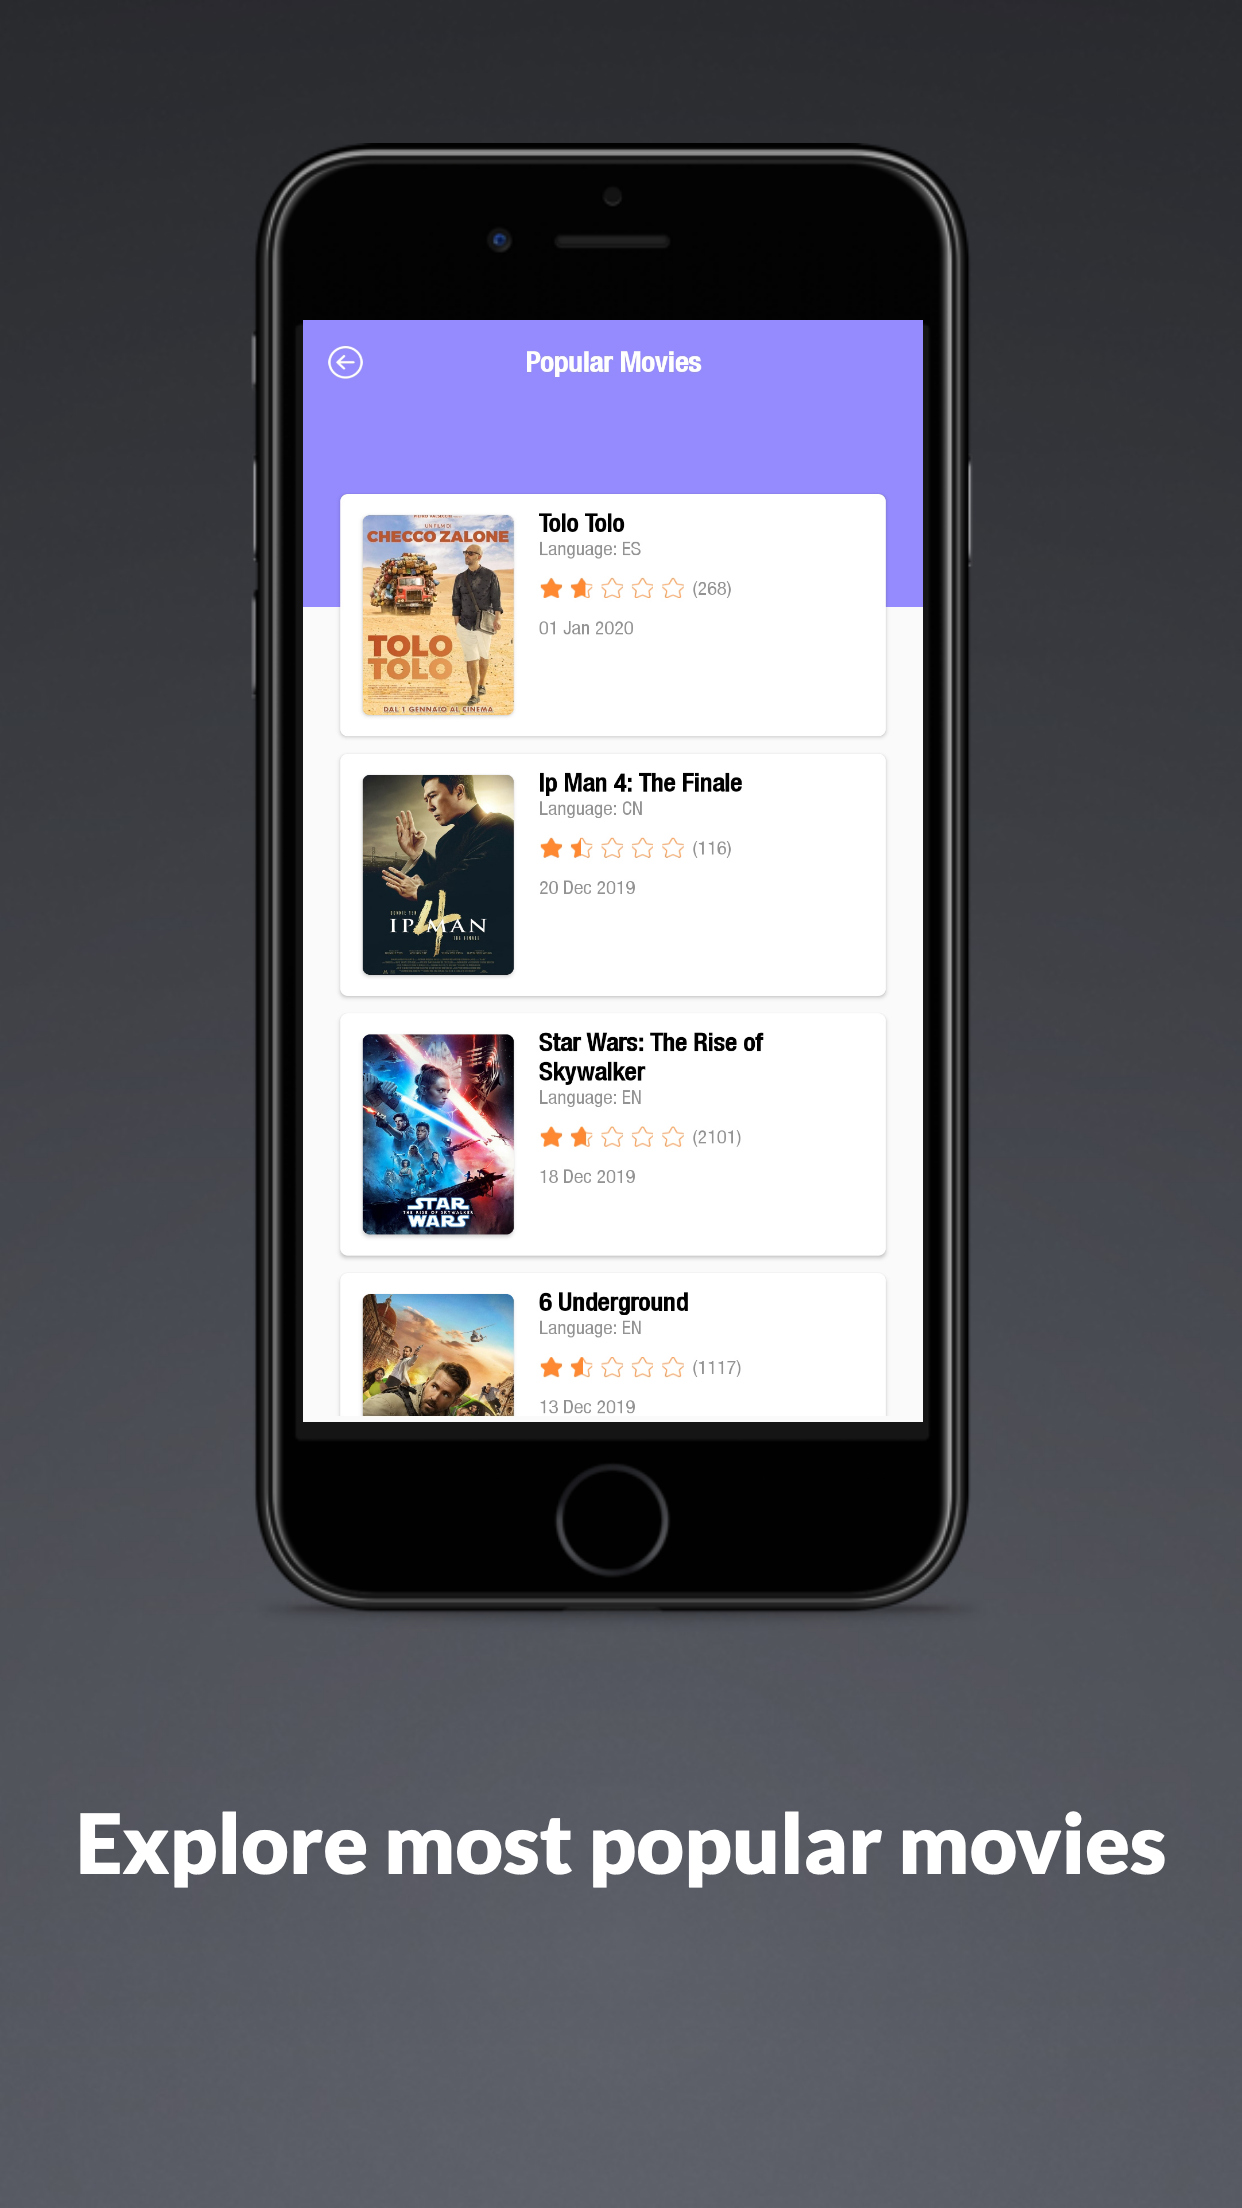
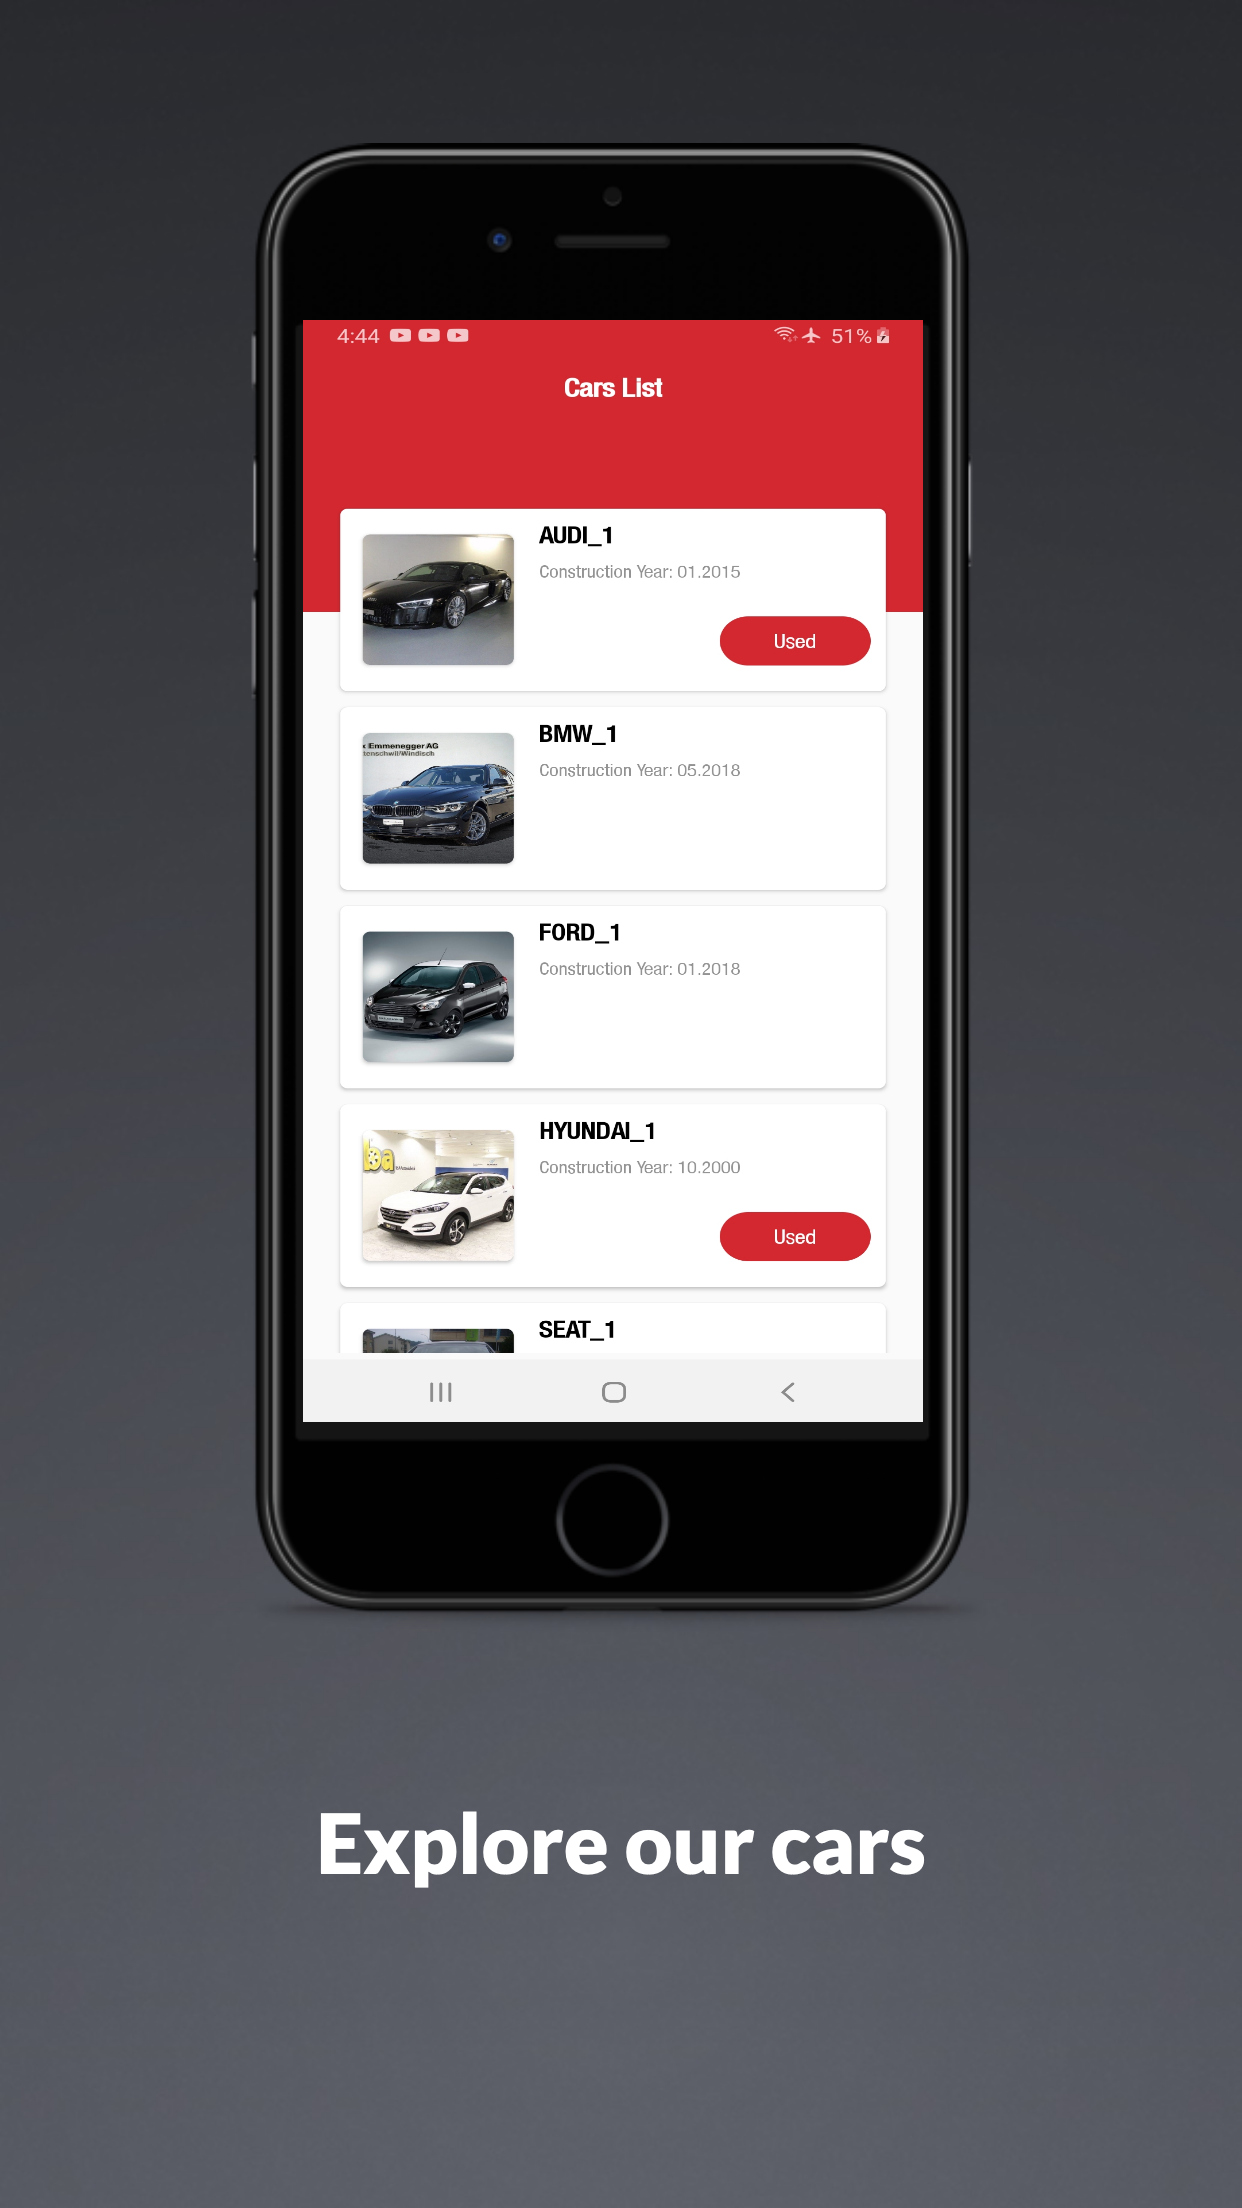
* Finish Pagenation.

Changed region(s): [[0.2448, 0.125, 0.7649, 0.6562], [0.0612, 0.8125, 0.9485, 0.875], [0.5813, 0.2812, 0.7037, 0.3125]]

diff --git a/app/src/main/java/com/mina_mikhail/soft_expert_task/utils/EndlessRecyclerViewScrollListener.java b/app/src/main/java/com/mina_mikhail/soft_expert_task/utils/EndlessRecyclerViewScrollListener.java
@@ -1,0 +1,104 @@
+package com.mina_mikhail.soft_expert_task.utils;
+
+import android.support.v7.widget.GridLayoutManager;
+import android.support.v7.widget.LinearLayoutManager;
+import android.support.v7.widget.RecyclerView;
+import android.support.v7.widget.StaggeredGridLayoutManager;
+
+public abstract class EndlessRecyclerViewScrollListener
+    extends RecyclerView.OnScrollListener {
+  // The minimum amount of items to have below your current scroll position
+  // before loading more.
+  private int visibleThreshold = 5;
+  // Sets the starting page index
+  private int startingPageIndex = 1;
+  // The current offset index of data you have loaded
+  private int currentPage = 1;
+  // The total number of items in the dataset after the last load
+  private int previousTotalItemCount = 0;
+
+  private RecyclerView.LayoutManager mLayoutManager;
+
+  public EndlessRecyclerViewScrollListener(LinearLayoutManager layoutManager,
+      int startingPageIndex) {
+    this.mLayoutManager = layoutManager;
+    this.startingPageIndex = startingPageIndex;
+  }
+
+  public EndlessRecyclerViewScrollListener(GridLayoutManager layoutManager, int startingPageIndex) {
+    this.mLayoutManager = layoutManager;
+    this.startingPageIndex = startingPageIndex;
+
+    visibleThreshold = visibleThreshold * layoutManager.getSpanCount();
+  }
+
+  public EndlessRecyclerViewScrollListener(StaggeredGridLayoutManager layoutManager,
+      int startingPageIndex) {
+    this.mLayoutManager = layoutManager;
+    this.startingPageIndex = startingPageIndex;
+
+    visibleThreshold = visibleThreshold * layoutManager.getSpanCount();
+  }
+
+  private int getLastVisibleItem(int[] lastVisibleItemPositions) {
+    int maxSize = 0;
+    for (int i = 0; i < lastVisibleItemPositions.length; i++) {
+      if (i == 0) {
+        maxSize = lastVisibleItemPositions[i];
+      } else if (lastVisibleItemPositions[i] > maxSize) {
+        maxSize = lastVisibleItemPositions[i];
+      }
+    }
+    return maxSize;
+  }
+
+  // This happens many times a second during a scroll, so be wary of the code you place here.
+  // We are given a few useful parameters to help us work out if we need to load some more data,
+  // but first we check if we are waiting for the previous load to finish.
+  @Override
+  public void onScrolled(RecyclerView view, int dx, int dy) {
+    if (dy <= 0) return;
+
+    int lastVisibleItemPosition = 0;
+    int totalItemCount = mLayoutManager.getItemCount();
+
+    if (mLayoutManager instanceof LinearLayoutManager) {
+      lastVisibleItemPosition =
+          ((LinearLayoutManager) mLayoutManager).findLastVisibleItemPosition();
+    } else if (mLayoutManager instanceof GridLayoutManager) {
+      lastVisibleItemPosition = ((GridLayoutManager) mLayoutManager).findLastVisibleItemPosition();
+    } else if (mLayoutManager instanceof StaggeredGridLayoutManager) {
+      int[] lastVisibleItemPositions =
+          ((StaggeredGridLayoutManager) mLayoutManager).findLastVisibleItemPositions(null);
+      // get maximum element within the list
+      lastVisibleItemPosition = getLastVisibleItem(lastVisibleItemPositions);
+    }
+
+    // If the total item count is zero and the previous isn't, assume the
+    // list is invalidated and should be reset back to initial state
+    if (totalItemCount < previousTotalItemCount) {
+      this.currentPage = this.startingPageIndex;
+      this.previousTotalItemCount = totalItemCount;
+    }
+
+    // If it’s still loading, we check to see if the dataSet count has
+    // changed, if so we conclude it has finished loading and update the current page
+    // number and total item count.
+    if (isLoading() && (totalItemCount > previousTotalItemCount)) {
+      this.previousTotalItemCount = totalItemCount;
+    }
+
+    // If it isn’t currently loading, we check to see if we have breached
+    // the visibleThreshold and need to reload more data.
+    // If we do need to reload some more data, we execute onLoadMore to fetch the data.
+    // threshold should reflect how many total columns there are too
+    if (!isLoading() && (lastVisibleItemPosition + visibleThreshold) > totalItemCount) {
+      currentPage++;
+      onLoadMore(currentPage, totalItemCount);
+    }
+  }
+
+  public abstract void onLoadMore(int page, int totalItemsCount);
+
+  public abstract boolean isLoading();
+}

diff --git a/app/src/main/java/com/mina_mikhail/soft_expert_task/ui/main/MainActivity.java b/app/src/main/java/com/mina_mikhail/soft_expert_task/ui/main/MainActivity.java
@@ -3,6 +3,7 @@ package com.mina_mikhail.soft_expert_task.ui.main;
 import android.app.Activity;
 import android.arch.lifecycle.ViewModelProviders;
 import android.content.Intent;
+import android.support.v7.widget.LinearLayoutManager;
 import android.view.View;
 import com.mina_mikhail.soft_expert_task.BR;
 import com.mina_mikhail.soft_expert_task.R;
@@ -10,6 +11,7 @@ import com.mina_mikhail.soft_expert_task.data.model.api.Car;
 import com.mina_mikhail.soft_expert_task.databinding.ActivityMainBinding;
 import com.mina_mikhail.soft_expert_task.ui.base.BaseActivity;
 import com.mina_mikhail.soft_expert_task.utils.CommonUtils;
+import com.mina_mikhail.soft_expert_task.utils.EndlessRecyclerViewScrollListener;
 import java.util.ArrayList;
 import java.util.List;
 
@@ -68,26 +70,58 @@ public class MainActivity
   private void initCarsRecyclerView() {
     CommonUtils.configRecyclerView(getViewDataBinding().includedList.recyclerView, true);
     carsAdapter = new CarsAdapter(cars);
+    carsAdapter.setHasStableIds(true);
     getViewDataBinding().includedList.recyclerView.setAdapter(carsAdapter);
     getViewDataBinding().includedList.reloadBtn.setOnClickListener(v -> getData());
+
+    getViewDataBinding().includedList.recyclerView.addOnScrollListener(
+        new EndlessRecyclerViewScrollListener(
+            (LinearLayoutManager) getViewDataBinding().includedList.recyclerView.getLayoutManager(),
+            getViewModel().getCurrentPage()) {
+          @Override
+          public void onLoadMore(int page, int totalItemsCount) {
+            if (getViewModel().shouldLoadMore()) {
+              getViewModel().setShouldLoadMore(false);
+              getViewModel().setLoading(true);
+
+              getViewModel().getCars();
+            }
+          }
+
+          @Override
+          public boolean isLoading() {
+            return getViewModel().isLoading();
+          }
+        });
   }
 
   private void getData() {
     IS_API_CALLED = false;
     showProgress();
-    getViewModel().getCars(1);
+    getViewModel().getCars();
   }
 
   @Override
   protected void setUpObservables() {
-    getViewModel().getCarsData().observe(this, cars -> {
+    getViewModel().getCarsData().observe(this, carList -> {
       IS_API_CALLED = true;
       SHOULD_CALL_API_AGAIN = false;
-      if (cars != null) {
-        carsAdapter.replaceItems(cars);
-        showData();
+      if (carList != null) {
+        cars.addAll(carList);
+        if (this.cars.size() == 0) {
+          showNoData();
+        } else {
+          showData();
+          carsAdapter.notifyDataSetChanged();
+        }
       } else {
         showNoData();
+      }
+    });
+
+    getViewModel().clearOldList().observe(this, clearOldList -> {
+      if (clearOldList != null) {
+        cars.clear();
       }
     });
   }

diff --git a/app/src/main/java/com/mina_mikhail/soft_expert_task/ui/main/MainViewModel.java b/app/src/main/java/com/mina_mikhail/soft_expert_task/ui/main/MainViewModel.java
@@ -1,30 +1,56 @@
 package com.mina_mikhail.soft_expert_task.ui.main;
 
+import android.arch.lifecycle.LiveData;
 import android.arch.lifecycle.MutableLiveData;
 import com.mina_mikhail.soft_expert_task.data.model.api.Car;
 import com.mina_mikhail.soft_expert_task.data.remote.ApiClient;
 import com.mina_mikhail.soft_expert_task.data.remote.NetworkHelper;
 import com.mina_mikhail.soft_expert_task.data.remote.response.CarsResponse;
 import com.mina_mikhail.soft_expert_task.ui.base.BaseViewModel;
+import com.mina_mikhail.soft_expert_task.utils.Constants;
+import com.mina_mikhail.soft_expert_task.utils.SingleLiveEvent;
 import java.util.List;
 
 public class MainViewModel
     extends BaseViewModel {
 
+  private int currentPage;
+  private boolean isLoading;
+  private boolean shouldLoadMore;
+
   private MutableLiveData<List<Car>> cars;
+  private SingleLiveEvent<Boolean> clearOldList;
 
   public MainViewModel() {
+    currentPage = 1;
+    clearOldList = new SingleLiveEvent<>();
+
     cars = new MutableLiveData<>();
   }
 
-  void getCars(int pageNumber) {
+  void getCars() {
     helper = new NetworkHelper.NetworkBuilder<CarsResponse>()
         .setApiCall(ApiClient.getInstance().getApiService()
-            .getCars(pageNumber))
+            .getCars(currentPage))
         .setListener(new NetworkHelper.NetworkListener() {
           @Override
           public <V> void onApiSuccess(V response) {
-            cars.setValue(((CarsResponse) response).getData());
+            CarsResponse apiResponse = ((CarsResponse) response);
+            List<Car> historyList = apiResponse.getData();
+
+            if (currentPage == 1) {
+              clearOldList.setValue(true);
+            }
+            cars.setValue(historyList);
+
+            if (historyList.size() == Constants.LIST_PAGE_SIZE) {
+              currentPage++;
+              shouldLoadMore = true;
+            } else {
+              shouldLoadMore = false;
+            }
+
+            isLoading = false;
           }
 
           @Override
@@ -38,6 +64,34 @@ public class MainViewModel
           }
         })
         .call();
+  }
+
+  void setCurrentPage(int currentPage) {
+    this.currentPage = currentPage;
+  }
+
+  int getCurrentPage() {
+    return currentPage;
+  }
+
+  boolean isLoading() {
+    return isLoading;
+  }
+
+  void setLoading(boolean loading) {
+    isLoading = loading;
+  }
+
+  boolean shouldLoadMore() {
+    return shouldLoadMore;
+  }
+
+  void setShouldLoadMore(boolean shouldLoadMore) {
+    this.shouldLoadMore = shouldLoadMore;
+  }
+
+  LiveData<Boolean> clearOldList() {
+    return clearOldList;
   }
 
   MutableLiveData<List<Car>> getCarsData() {

diff --git a/app/src/main/java/com/mina_mikhail/soft_expert_task/ui/main/CarsAdapter.java b/app/src/main/java/com/mina_mikhail/soft_expert_task/ui/main/CarsAdapter.java
@@ -58,6 +58,12 @@ public class CarsAdapter
     }
   }
 
+  @Override
+  public long getItemId(int position) {
+    // To solve blinking after notifyDataSetChanged()
+    return position;
+  }
+
   // To solve the problem of fast scroll
   @Override
   public void onViewDetachedFromWindow(@NonNull RecyclerView.ViewHolder holder) {

diff --git a/app/src/main/java/com/mina_mikhail/soft_expert_task/utils/Constants.java b/app/src/main/java/com/mina_mikhail/soft_expert_task/utils/Constants.java
@@ -3,4 +3,5 @@ package com.mina_mikhail.soft_expert_task.utils;
 public final class Constants {
 
   public static final String BASE_URL = "http://demo1286023.mockable.io/api/v1/";
+  public static final int LIST_PAGE_SIZE = 10;
 }
